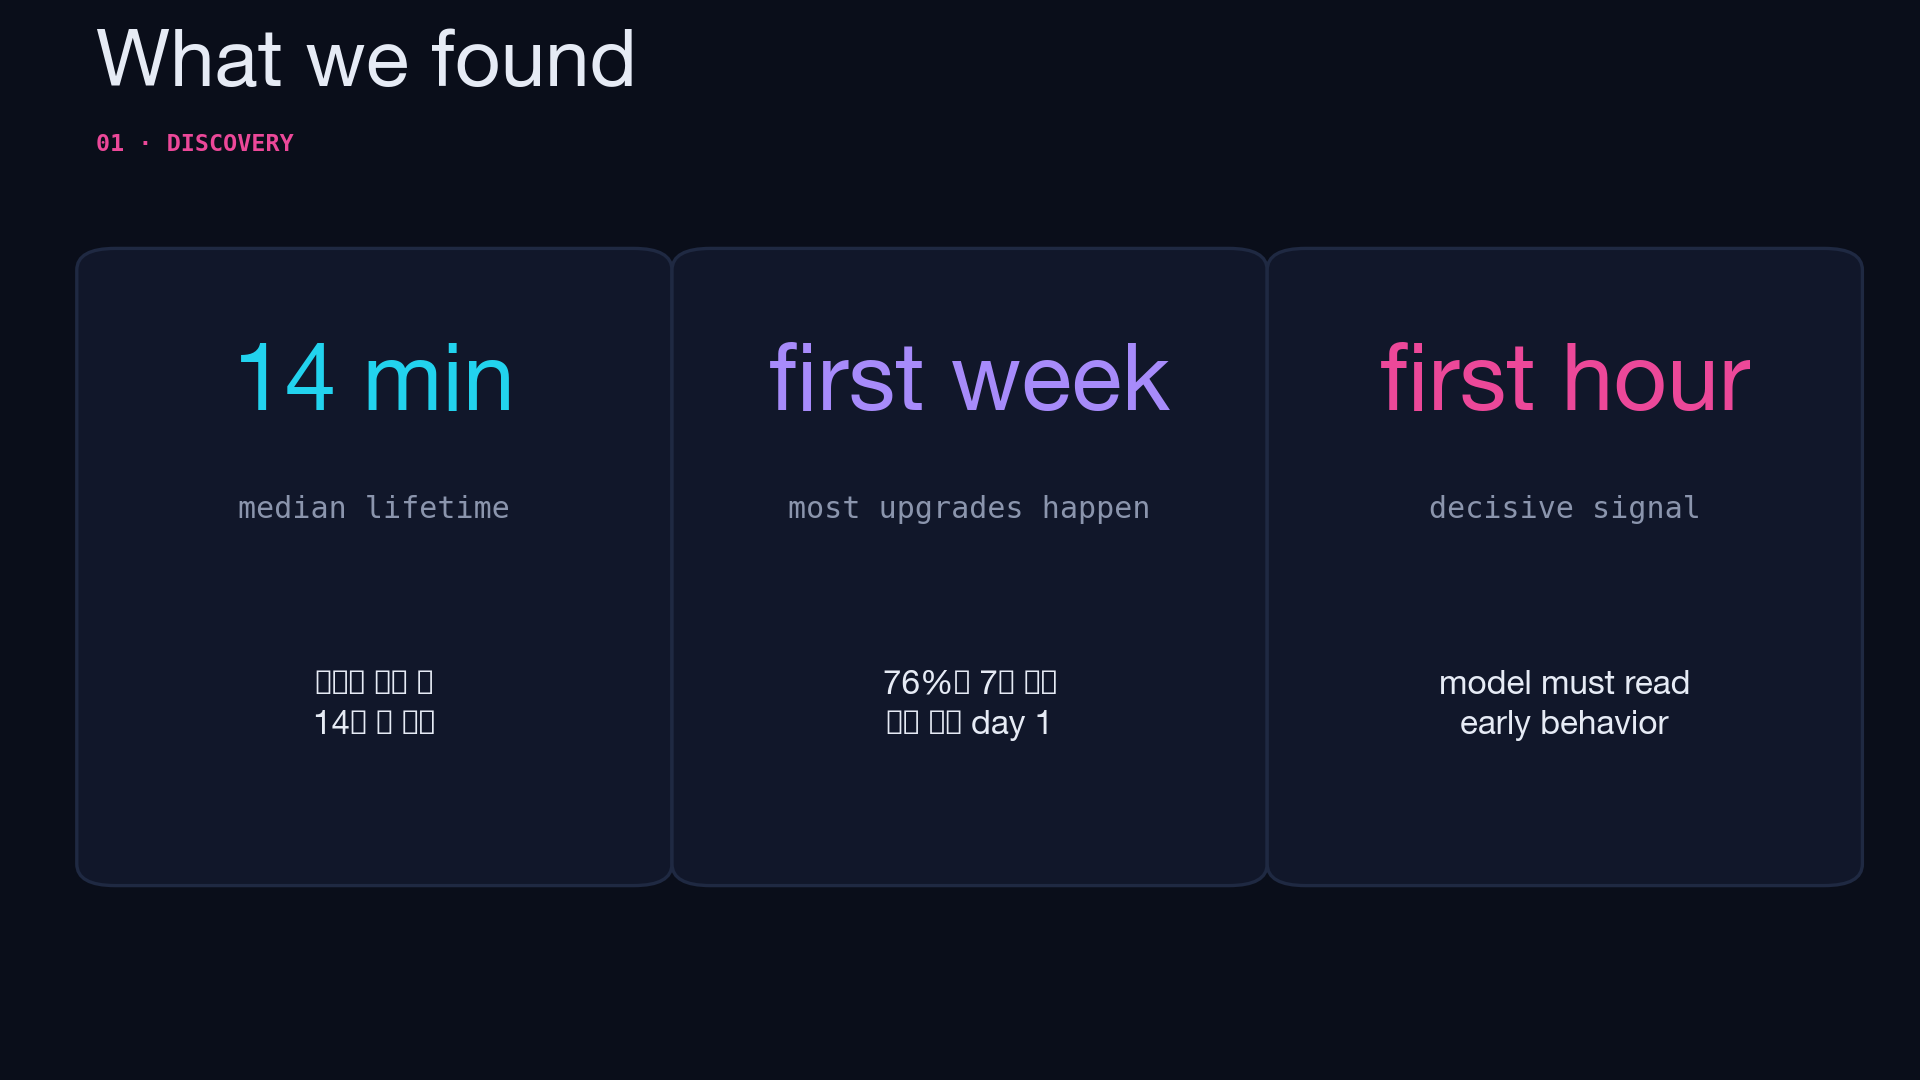
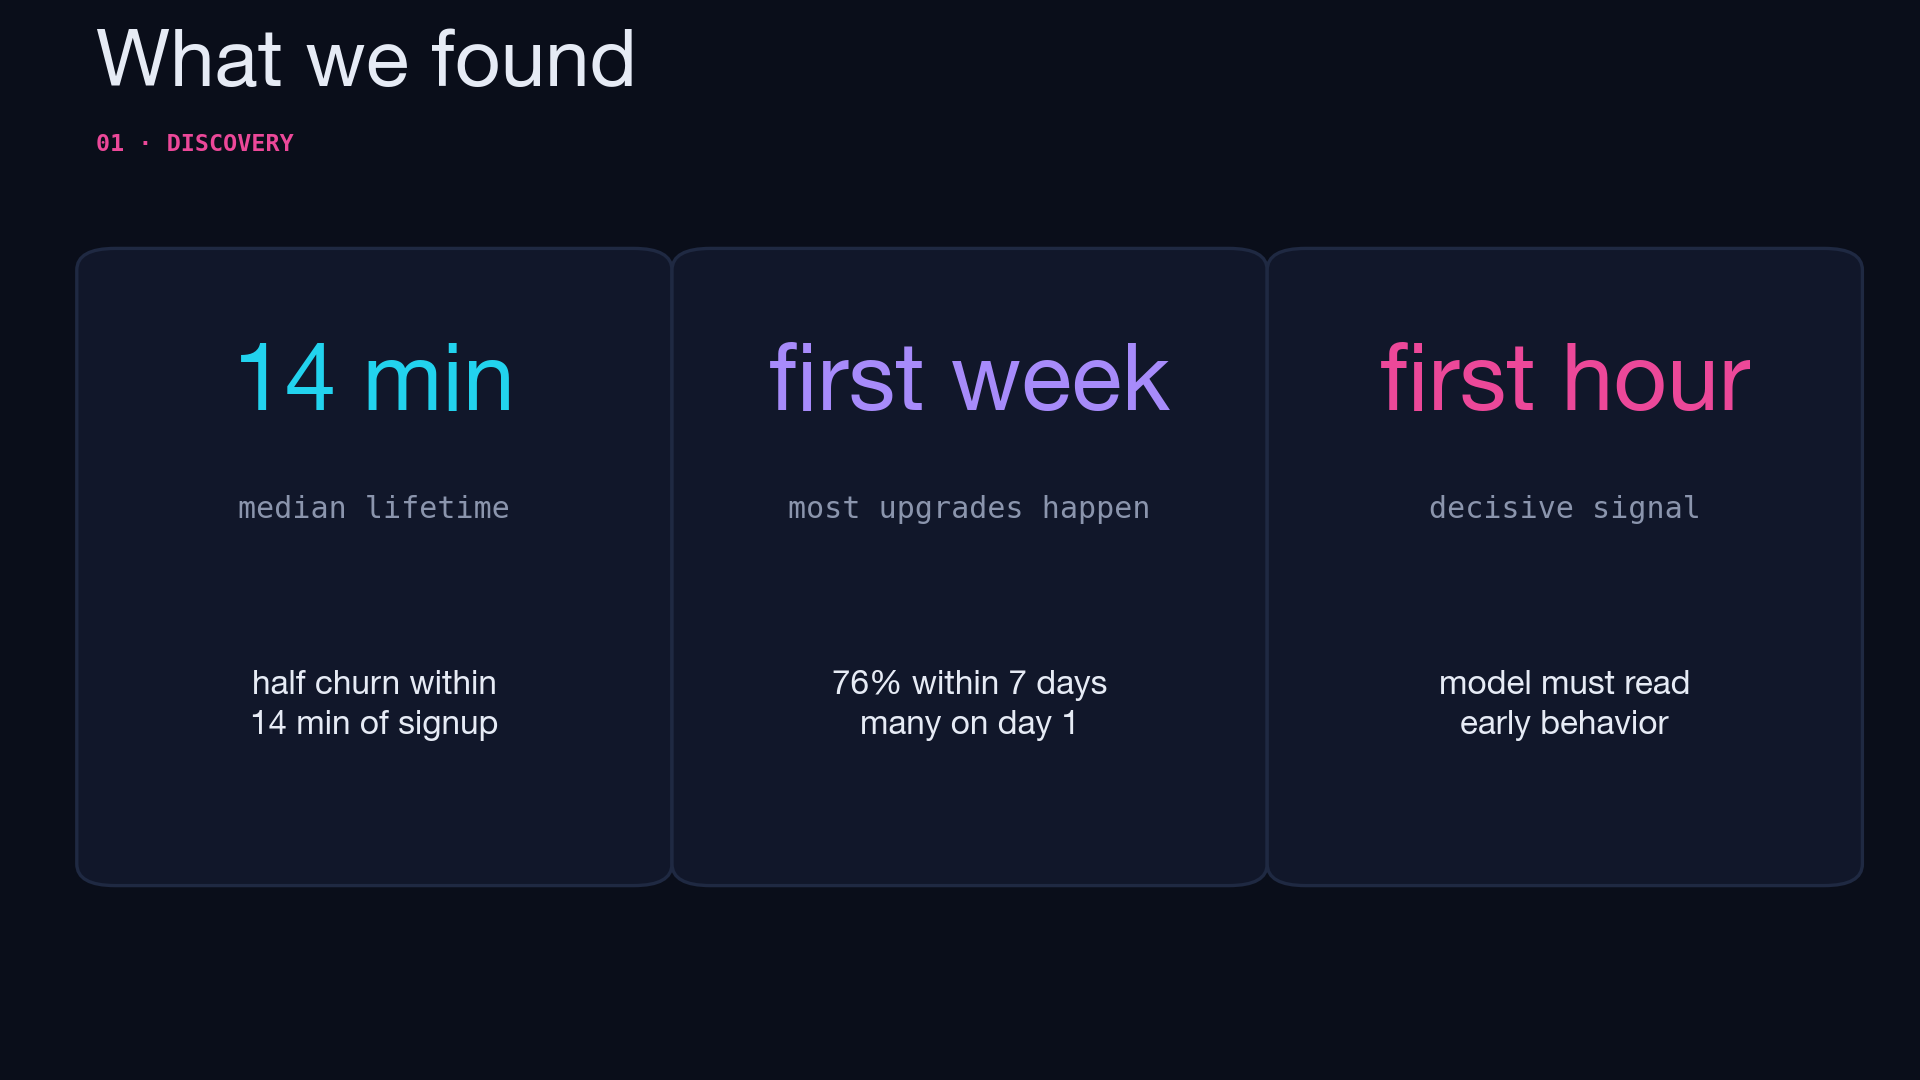
Clean up video assets: filter leak events, ASCII glyphs, English labels
- Lift table: explicit LEAK_EVENTS blacklist + min upgraders >=50
  (drops agent_add_on_credits_popup_opened, ai_credit_banner_clicked etc.)
- Replace Korean text in discovery card with English
- Replace Unicode glyphs (star, arrow) with ASCII to avoid font warnings
- Widen left margins so y-axis labels no longer truncate
- Friendlier event labels for tool calls and notebook deployment
- Move lift-table footnote to avoid overlapping x-axis label

Changed region(s): [[0.4375, 0.6111, 0.5938, 0.7028], [0.125, 0.6111, 0.25, 0.7028]]

diff --git a/docs/video_assets/generate_assets.py b/docs/video_assets/generate_assets.py
@@ -124,8 +124,8 @@ def make_discovery1():
              weight="bold", family="monospace")
 
     cards = [
-        ("14 min",     "median lifetime",      "절반이 가입 후\n14분 내 이탈",   CYAN),
-        ("first week", "most upgrades happen", "76%는 7일 안에\n많은 수가 day 1",  VIOLET),
+        ("14 min",     "median lifetime",      "half churn within\n14 min of signup",  CYAN),
+        ("first week", "most upgrades happen", "76% within 7 days\nmany on day 1",     VIOLET),
         ("first hour", "decisive signal",      "model must read\nearly behavior", PINK),
     ]
     for i, (big, label, sub, color) in enumerate(cards):
@@ -149,20 +149,24 @@ def make_lift_table():
     df = df.loc[df["upg_users"] >= 50].sort_values("lift_reach", ascending=False).head(6)
 
     label_map = {
-        "ai_credit_banner_shown":             "Limit-warning banner shown",
-        "credits_exceeded":                   "Hit credit limit",
-        "credits_below_4":                    "Credits running low",
-        "agent_tool_call_analyze_attachment_tool": "Used 'analyze' AI tool",
-        "notebook_deployment_deployed":       "Deployed a notebook",
-        "notebook_deployment_preview_created":"Created notebook preview",
-        "notebook_deployment_preview_updated":"Updated notebook preview",
-        "notebook_deployment_updated":        "Updated a deployment",
-        "source_control_commit":              "Made a Git commit",
-        "source_control_pull":                "Pulled from Git",
-        "canvas_clone":                       "Cloned a canvas",
-        "credits_used":                       "Used credits",
-        "agent_message":                      "Sent a message to AI agent",
-        "files_upload":                       "Uploaded a file",
+        "ai_credit_banner_shown":                       "Limit-warning banner shown",
+        "credits_exceeded":                             "Hit credit limit",
+        "credits_below_4":                              "Credits running low",
+        "agent_tool_call_analyze_attachment_tool":      "Used 'analyze' AI tool",
+        "agent_tool_call_list_executor_images_tool":    "Used 'list images' AI tool",
+        "agent_tool_call_get_scripts_tool":             "Used 'get scripts' AI tool",
+        "notebook_deployment_deployed":                 "Deployed a notebook",
+        "notebook_deployment_preview_created":          "Created notebook preview",
+        "notebook_deployment_preview_updated":          "Updated notebook preview",
+        "notebook_deployment_updated":                  "Updated a deployment",
+        "notebook_deployment_usage_tracked":            "Notebook deployment used",
+        "notebook_deployment_automatic_preview_started":"Auto-preview started",
+        "source_control_commit":                        "Made a Git commit",
+        "source_control_pull":                          "Pulled from Git",
+        "canvas_clone":                                 "Cloned a canvas",
+        "credits_used":                                 "Used credits",
+        "agent_message":                                "Sent a message to AI agent",
+        "files_upload":                                 "Uploaded a file",
     }
     df["label"] = df["event"].map(lambda e: label_map.get(e, e))
 
@@ -187,9 +191,9 @@ def make_lift_table():
     for y, v in zip(y_pos, df["lift_reach"].values):
         ax.text(v + df["lift_reach"].max() * 0.015, y, f"{v:.1f}x",
                 color=TEXT, va="center", fontsize=22, weight="bold")
-    fig.text(0.05, 0.06, "Banner shown ~22x and credit-limit hit ~12x are the two strongest signals.",
+    fig.text(0.05, 0.04, "Limit-warning banner is the strongest signal at 22x; deployment activity clusters at 13-18x.",
              fontsize=18, color=EMERALD)
-    fig.subplots_adjust(left=0.32, right=0.96, top=0.78, bottom=0.15)
+    fig.subplots_adjust(left=0.32, right=0.96, top=0.78, bottom=0.18)
     save(fig, "cut_0_23_lift_table.png")
 
 # ── 0:41 FUNNEL 15-STAGE DISTRIBUTION ────────────────────────────────────────
